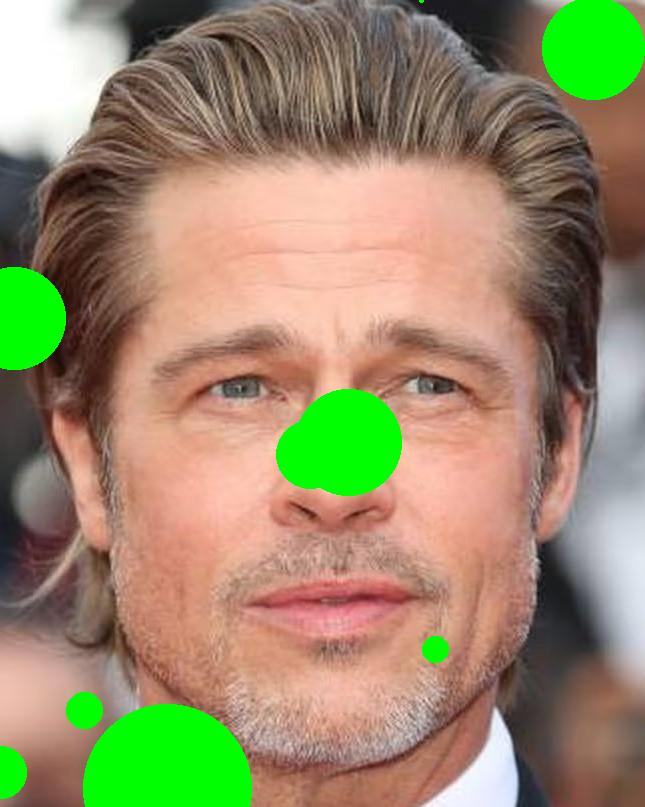
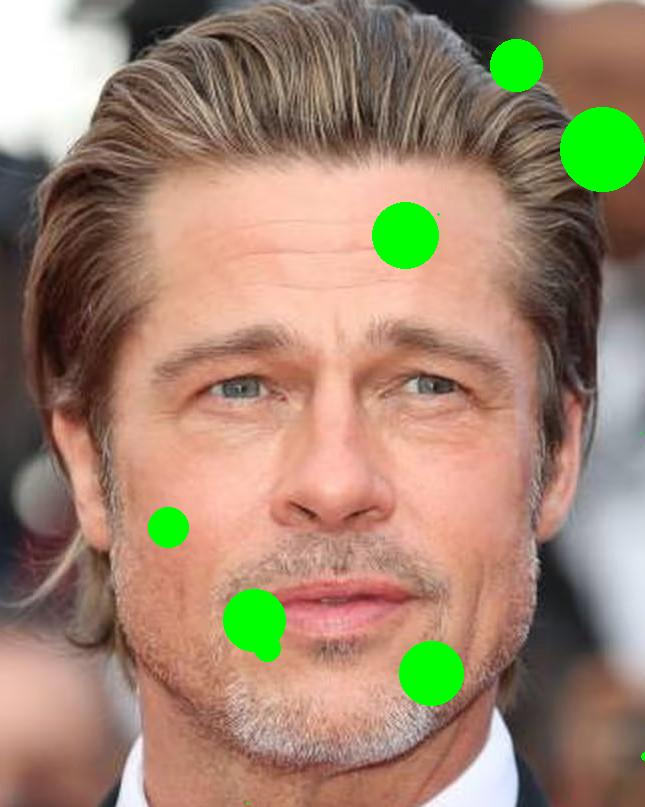
better fitness & new results

diff --git a/src/evolution/main.py b/src/evolution/main.py
@@ -13,3 +13,27 @@ population = Population(populationSize, eliteSize, mutationRate, crossoverRate, 
 while population.nGenerations < 100:
     population.evolve()
     print('Gen: ' + str(population.nGenerations) + ' Fitness: ' + str(population.individuals[0].fitness))
+
+'''
+concept:
+
+    generate 3d masks
+    generate sheet of stickers from input PNGs
+        generate sheet of selected needed emoji stickers
+    make someone be identified as someone else - celebrity
+
+to-do:
+
+    better area covered calculator
+    circle coordinates based on face rectangle
+    fitness based on important areas covered (eyes, mouth)
+
+    evaluate based on several images
+    web tool using https://pyscript.net? > p5 for graphic stuff
+
+    connect circles - "make masks" - meta balls?
+    different objects? - not just circles
+
+    to 3D... script in blender? rhyno?
+
+'''

diff --git a/src/evolution/evaluator.py b/src/evolution/evaluator.py
@@ -12,11 +12,16 @@ def evaluate(individual, pathValue):
 
     result = DeepFace.verify(img1_path = individual.getImagePath(), img2_path = referencePaths[pathIndex], enforce_detection = False)
     confidence = int(result['verified']) #bool verified or not
+    distance = float(result['distance']) #float distance between images from 0 to 1
     #confidence = result['distance'] #distance between faces
 
     area = individual.totalArea
 
-    fitness = 1 - (confidence * .75) - (area * 10)
+    #print()
+    #print('c: ' + str(confidence))
+    #print('d: ' + str(distance)) 
 
-    individual.exportInfo(fitness, confidence, area)
+    fitness = 1 - ((1-distance) * .75) - (area * 10)
+
+    individual.exportInfo(fitness, distance, area)
     individual.setFitness(fitness)

diff --git a/src/evolution/individual.py b/src/evolution/individual.py
@@ -24,9 +24,9 @@ class Individual:
     def setFitness(self, fitness):
         self.fitness = fitness
 
-    def exportInfo(self, fitness, confidence, area):
+    def exportInfo(self, fitness, distance, area):
         lines = ['fitness: ' + str(fitness), 
-                 'confidence: ' + str(confidence),
+                 'distance: ' + str(distance),
                  'area: ' + str(area)]
         
         with open(self.getTextPath(), 'w') as f:

diff --git a/src/evolution/population.py b/src/evolution/population.py
@@ -64,10 +64,13 @@ class Population:
     def tournamentSelection(self):
         participants = []
 
+        #individuals in tournament
         for i in range(self.tournamentSize):
             participants.append(self.individuals[random.randrange(len(self.individuals))])
 
         fittest = participants[0]
+
+        #get fittest
         for p in participants:
             if p.fitness > fittest.fitness:
                 fittest = p
